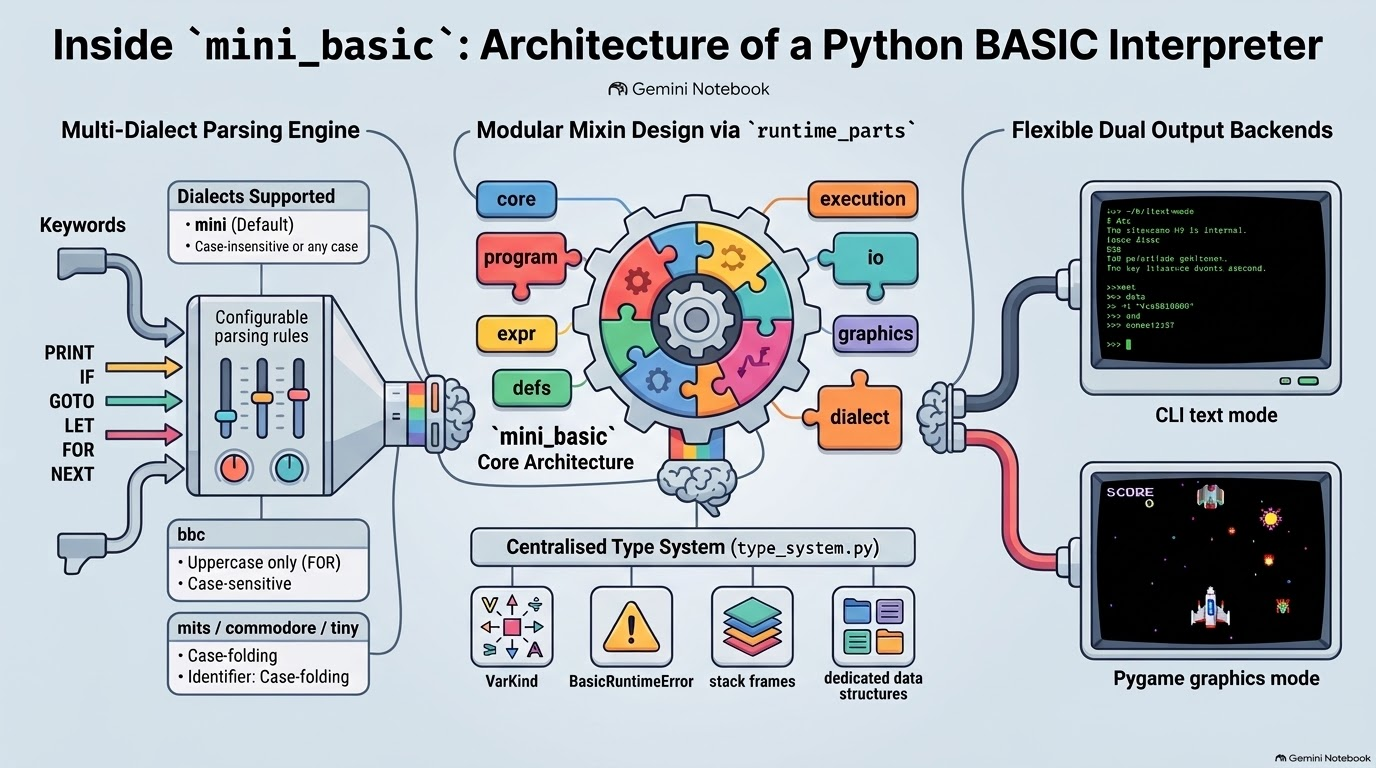
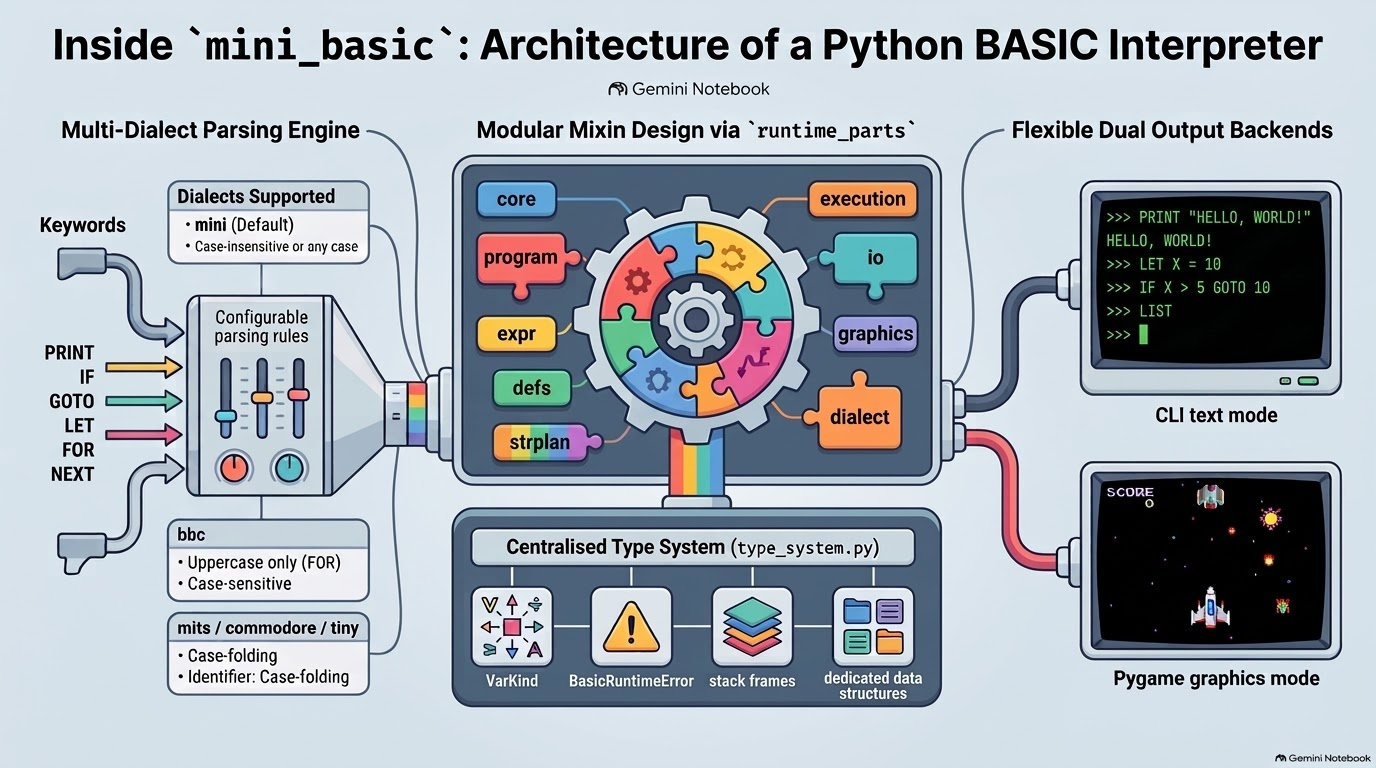
docs: updated architecture infographic (strplan added, real terminal text)
Claude-Session: https://claude.ai/code/session_01JprU5i2jphbBrXN4mdKMym
(cherry picked from commit 54ecf45a258b98a5bd145c48b40a788ce58652be)

Changed region(s): [[0.2812, 0.1875, 0.7188, 0.9375], [0.7812, 0.25, 0.9375, 0.4688], [0.5, 0.4062, 0.5312, 0.4375]]

diff --git a/docs/site/LLM.html b/docs/site/LLM.html
@@ -32,7 +32,7 @@ cd mini_basic
 python -m pytest -q -m &quot;phase1 and not slow&quot; --timeout=45</code></pre>
 <h3 id="architecture-at-a-glance">Architecture at a glance</h3>
 <p><img src="img/architecture.jpg" alt="mini_basic architecture: dialect parsing, runtime_parts mixins, text and pygame backends" style="max-width:100%;height:auto"></p>
-<p><em>Overview illustration (generated with Gemini Notebook). Read it for the shape, not the details: the text inside the terminal panel is illustrative, not real output, and the module ring omits `strplan` (cached string expressions). For the real map of where each statement is handled, see [DISPATCH_MAP.md](DISPATCH_MAP.md).</em></p>
+<p><em>Overview illustration (generated with Gemini Notebook). On the left, `mini` accepts keywords in any case but variable names stay case-sensitive; `mits` / `commodore` / `tiny` fold both. For where each statement is actually handled, see [DISPATCH_MAP.md](DISPATCH_MAP.md).</em></p>
 <h3 id="language-short">Language (short)</h3>
 <ul><li>Dialects: <code>mini</code> (default), <code>bbc</code>, <code>mits</code>, <code>commodore</code>, <code>tiny</code>.</li><li>Case-on (default mini/bbc): names are case-sensitive. <strong>bbc</strong> keywords are uppercase only; <strong>mini</strong> accepts any keyword case (<code>for i = 1 to 3</code> is stored as <code>FOR i = 1 TO 3</code>). <code>CASE OFF</code> folds keywords.</li><li>Use <code>MOD</code> for modulo. Bare <code>%</code> is an integer suffix, not modulo.</li><li><code>SIN</code> / <code>COS</code> / <code>TAN</code> use <strong>radians</strong> (<code>DEG</code> / <code>RAD</code> helpers exist).</li><li>Regular product is text-only. Graphics (<code>--pygame</code>) is an optional extra, not required.</li></ul>
 <p>See <a href="LANGUAGE_FEATURES_1.00.html">LANGUAGE_FEATURES_1.00.md</a> and <a href="RELEASE_1.00.html">RELEASE_1.00.md</a>.</p>

diff --git a/docs/LLM.md b/docs/LLM.md
@@ -23,7 +23,7 @@ python -m pytest -q -m "phase1 and not slow" --timeout=45
 
 ![mini_basic architecture: dialect parsing, runtime_parts mixins, text and pygame backends](img/architecture.jpg)
 
-*Overview illustration (generated with Gemini Notebook). Read it for the shape, not the details: the text inside the terminal panel is illustrative, not real output, and the module ring omits `strplan` (cached string expressions). For the real map of where each statement is handled, see [DISPATCH_MAP.md](DISPATCH_MAP.md).*
+*Overview illustration (generated with Gemini Notebook). On the left, `mini` accepts keywords in any case but variable names stay case-sensitive; `mits` / `commodore` / `tiny` fold both. For where each statement is actually handled, see [DISPATCH_MAP.md](DISPATCH_MAP.md).*
 
 ## Language (short)
 
